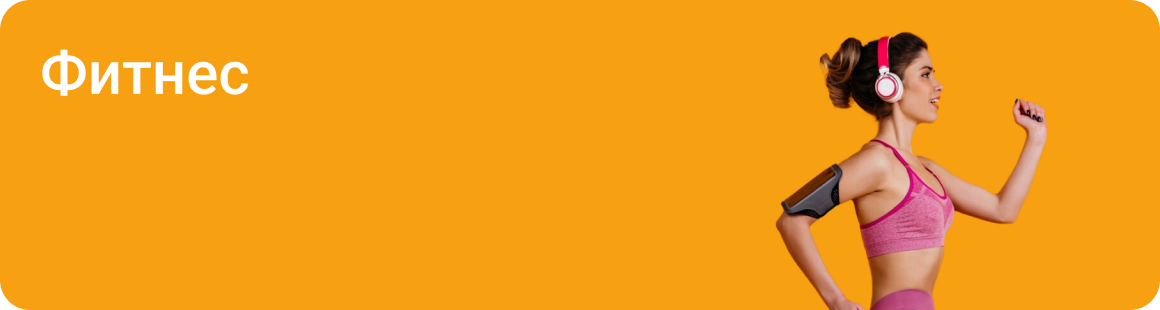
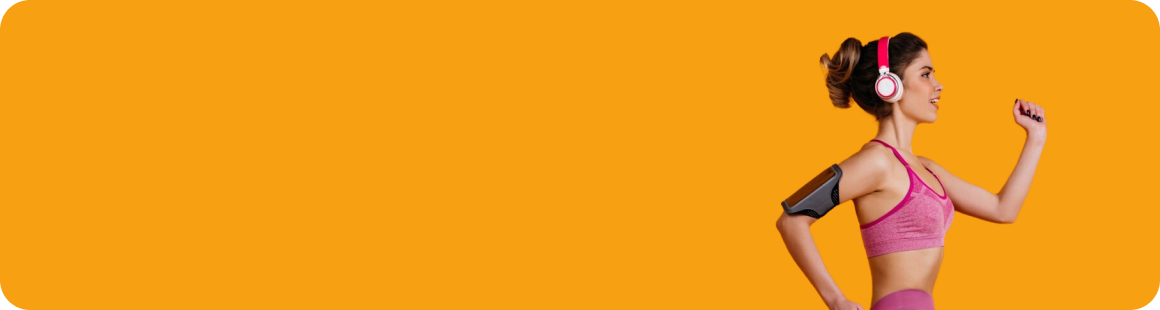
add-course-id: доделал весртку

Changed region(s): [[0.031, 0.1452, 0.2172, 0.3194]]

diff --git a/app/course/[id]/page.tsx b/app/course/[id]/page.tsx
@@ -3,6 +3,7 @@ import { notFound } from 'next/navigation';
 import styles from './page.module.css';
 import { getCourseById } from '@/shared/util/getCourseById';
 import {CourseCTA} from "@/components/CourseCTA/CourseCTA";
+import { getCourseTheme } from "@/shared/util/getCourseTheme";
 
 type PageProps = {
     params: Promise<{ id: string }>;
@@ -13,6 +14,7 @@ export default async function CoursePage({ params }: PageProps) {
 
     const course = getCourseById(id);
     if (!course) notFound();
+    const theme = getCourseTheme(id);
 
     return (
         <div className={styles.container}>
@@ -21,7 +23,15 @@ export default async function CoursePage({ params }: PageProps) {
                     <h1 className={styles.heroTitle}>{course.nameRU}</h1>
 
                     <div className={styles.heroImage}>
-                        <Image src={course.imageSrc} alt={course.nameRU} fill priority sizes="(max-width: 768px) 100vw, 1200px" />
+                        <Image
+                            src={theme.heroImageSrc}
+                            alt={course.nameRU}
+                            fill
+                            priority
+                            sizes="(max-width: 768px) 100vw, 1200px"
+                            className={styles.heroImageImg}
+                            style={{ objectPosition: theme.heroObjectPosition ?? "center" }}
+                        />
                     </div>
                 </div>
             </section>

diff --git a/app/course/[id]/page.module.css b/app/course/[id]/page.module.css
@@ -13,7 +13,6 @@
     height: 310px;
     border-radius: 30px;
     overflow: hidden;
-    background: #FFC700;
     box-shadow: 0 12px 30px rgba(0, 0, 0, 0.08);
 }
 
@@ -30,12 +29,11 @@
 
 .heroImage {
     position: absolute;
-    right: 100px;
-    bottom: 0;
-    top: -50px;
-    width: 360px;
-    height: 325px;
-    transform: scale(1.23);
+    inset: 0;
+}
+
+.heroImageImg {
+    object-fit: cover;
 }
 
 /* SECTIONS */
